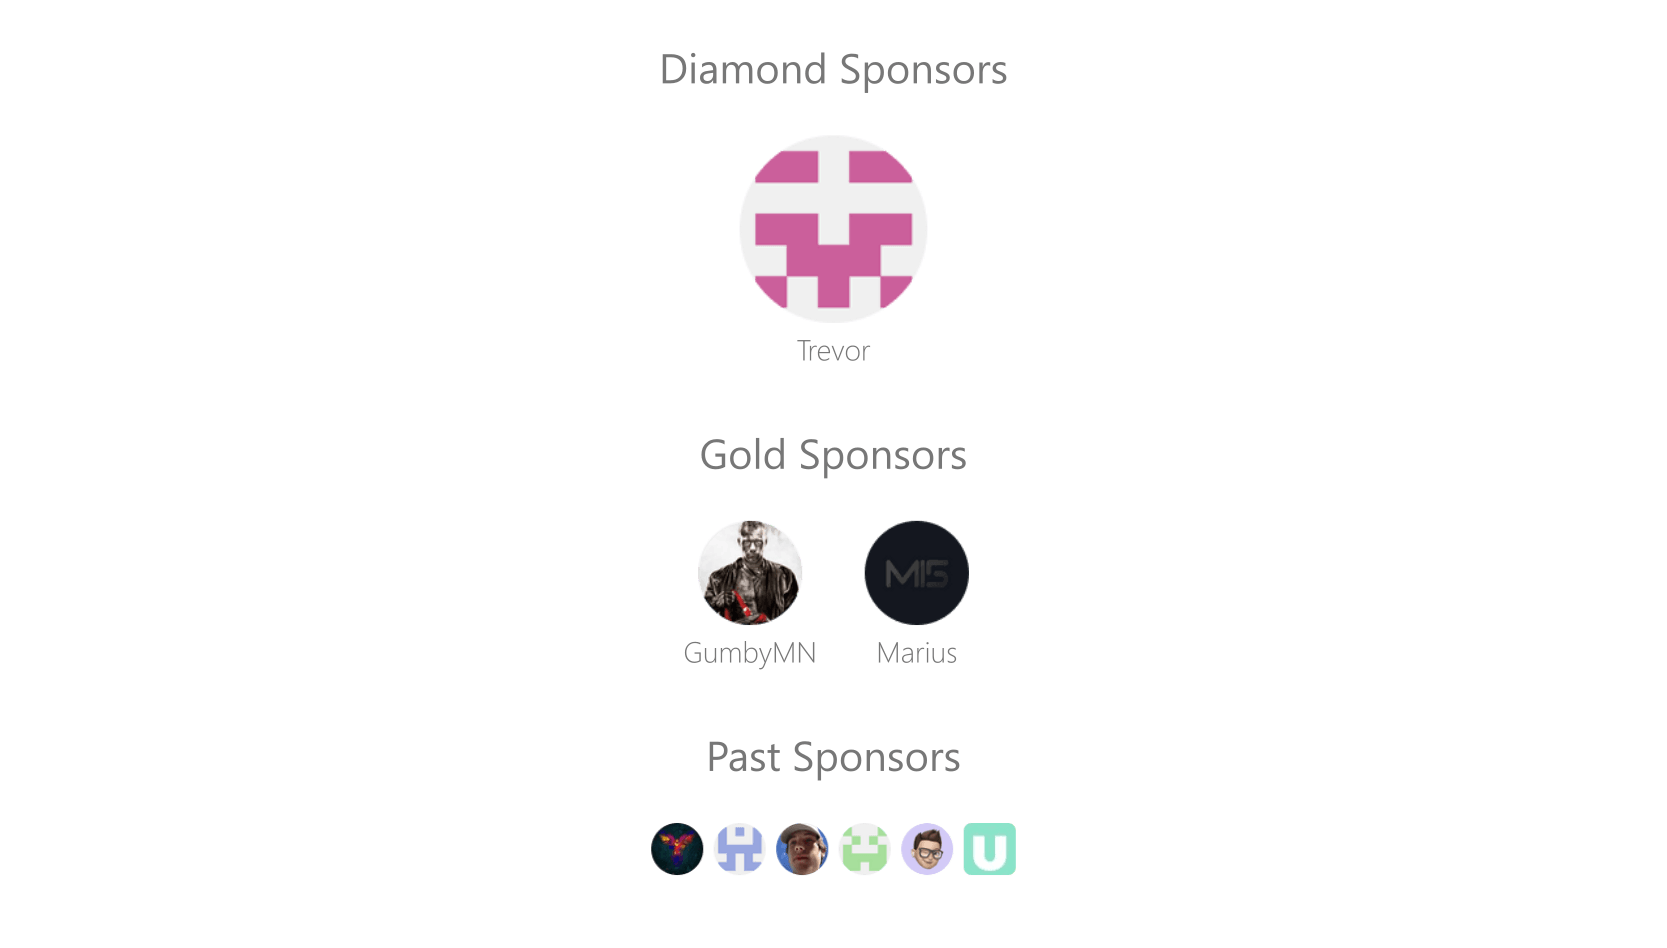
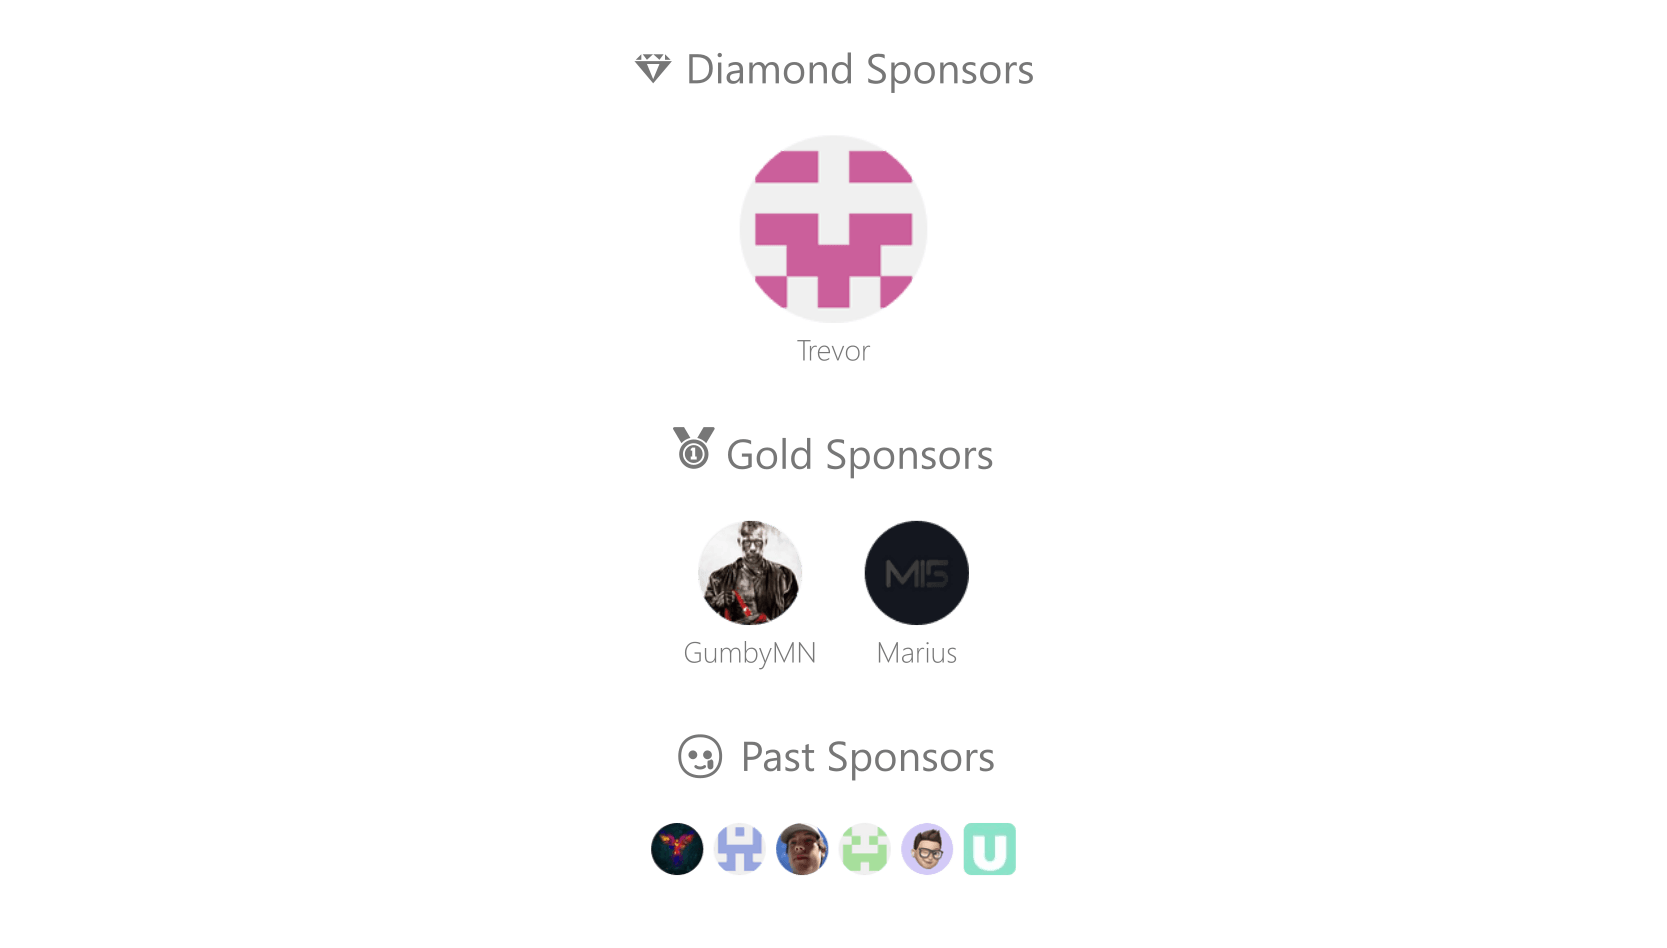
Update config

Changed region(s): [[0.4055, 0.4283, 0.5927, 0.52], [0.4055, 0.7648, 0.5927, 0.8259], [0.3743, 0.0612, 0.6239, 0.0918]]

diff --git a/sponsor.config.ts b/sponsor.config.ts
@@ -2,35 +2,34 @@ import { defineConfig, presets } from 'sponsorkit'
 
 export default defineConfig({
 	includePrivate: false,
-	width: 800,
-	formats: ['json', 'svg', 'png'],
+	// formats: ['json', 'svg', 'png'],
 	tiers: [
 		{
-			title: 'Past Sponsors',
+			title: '🥲 Past Sponsors',
 			monthlyDollars: -1,
 			preset: presets.xs,
 		},
 		{
-			title: 'Bronze Sponsors',
-			preset: presets.small,
+			title: '🥉 Bronze Sponsors',
+			preset: presets.small
 		},
 		{
-			title: 'Silver Sponsors',
+			title: '🥈 Silver Sponsors',
 			monthlyDollars: 3,
 			preset: presets.base
 		},
 		{
-			title: 'Gold Sponsors',
+			title: '🥇 Gold Sponsors',
 			monthlyDollars: 5,
 			preset: presets.medium,
 		},
 		{
-			title: 'Platinum Sponsors',
+			title: '🏆 Platinum Sponsors',
 			monthlyDollars: 7,
 			preset: presets.large,
 		},
 		{
-			title: 'Diamond Sponsors',
+			title: '💎 Diamond Sponsors',
 			monthlyDollars: 10,
 			preset: presets.xl,
 		},
